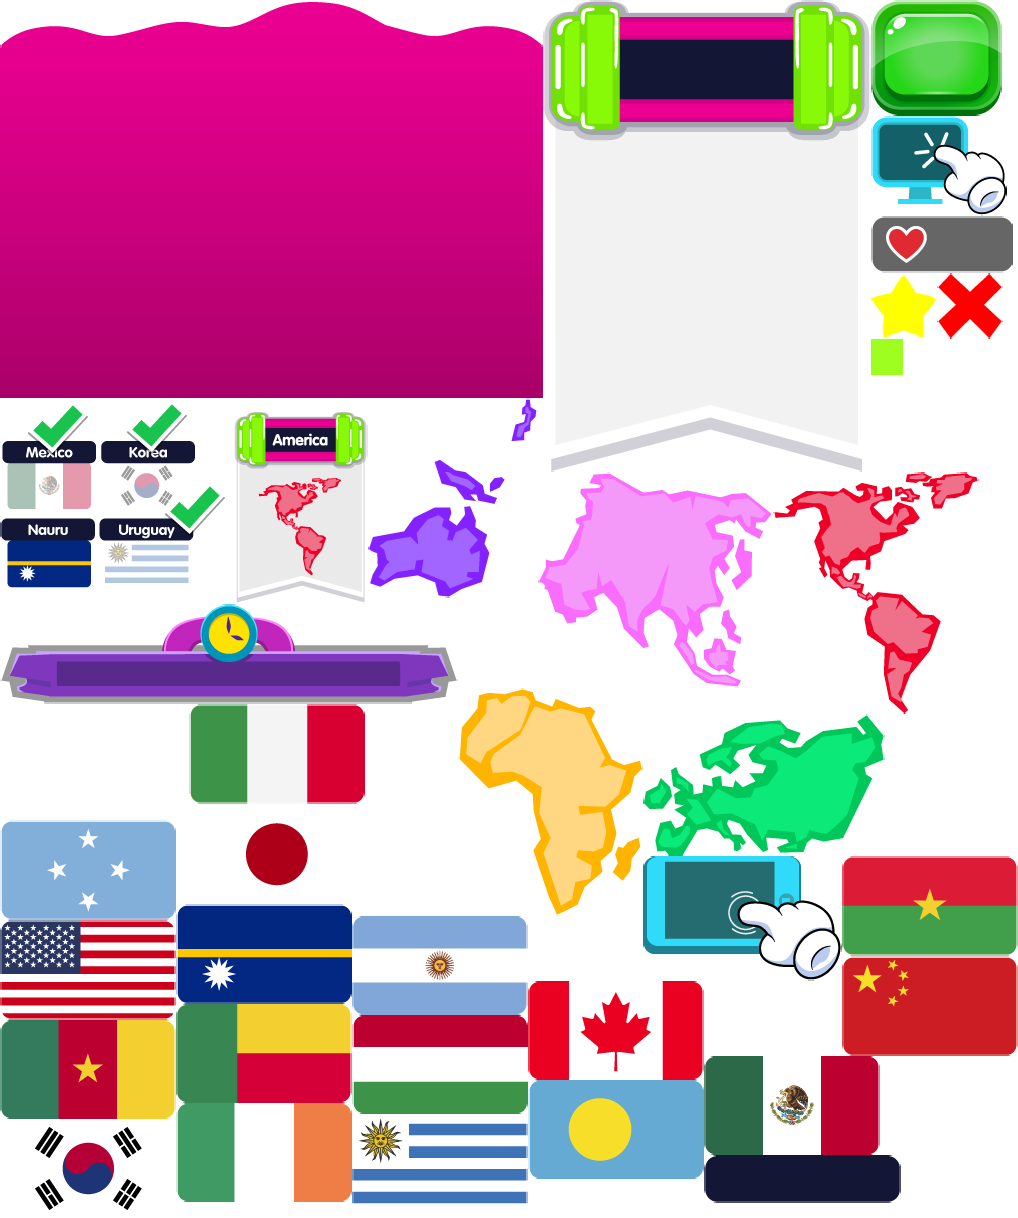
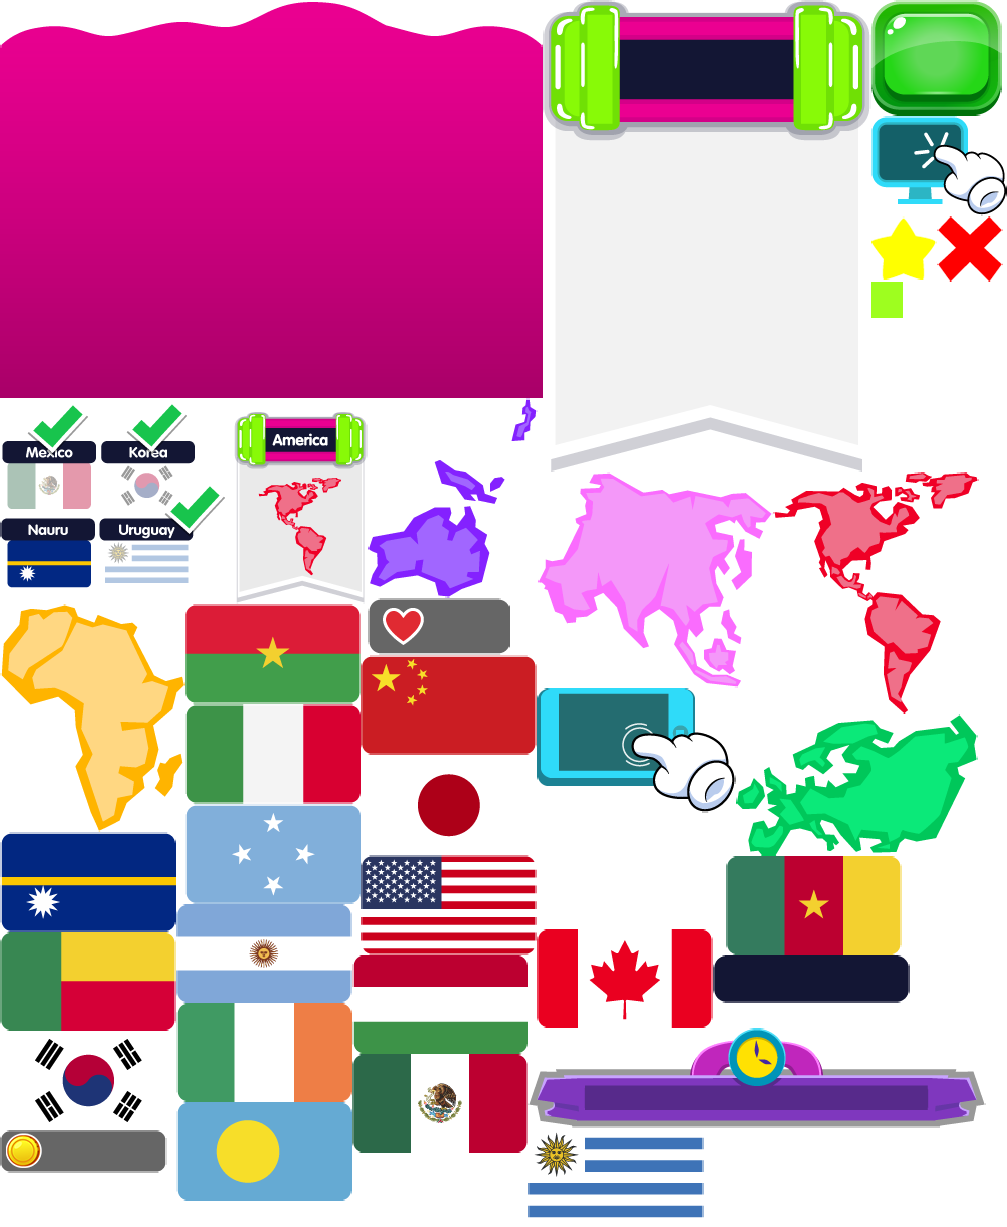
eye candy fixes, points added, levels added

diff --git a/nonrefactored/flagCollector/flagCollector/js/scenes/flag.js b/nonrefactored/flagCollector/flagCollector/js/scenes/flag.js
@@ -133,6 +133,8 @@ var flag = function(){
     var flagsGroup
     var inputsEnabled
     var selectedFlags
+    var pointsBar
+    var roundCounter
 
 	function loadSounds(){
 		sound.decode(assets.sounds)
@@ -145,11 +147,12 @@ var flag = function(){
         //gameActive = true
         lives = NUM_LIFES
         timeValue = 7
-        quantNumber = 0.5
+        quantNumber = 2
         numPoints = 0
         flagObjects = []
         continentObjects = []
         selectedFlags = []
+        roundCounter = 0
 
         sceneGroup.alpha = 0
         game.add.tween(sceneGroup).to({alpha:1},400, Phaser.Easing.Cubic.Out,true)
@@ -159,19 +162,73 @@ var flag = function(){
         
 	}
 
-	function generateCont(){
+    function addPoint(number){
+
+        sound.play("magic")
+        pointsBar.number+=number;
+        pointsBar.text.setText(pointsBar.number)
+
+        var scaleTween = game.add.tween(pointsBar.scale).to({x: 1.05,y:1.05}, 200, Phaser.Easing.linear, true)
+        scaleTween.onComplete.add(function(){
+            game.add.tween(pointsBar.scale).to({x: 1,y:1}, 200, Phaser.Easing.linear, true)
+        })
+
+        addNumberPart(pointsBar.text,'+' + number)
+
+        // if(pointsBar.number % 2 == 0){
+        timeValue-=timeValue * 0.10
+        // }
+
+    }
+
+    function createPointsBar(){
+
+        pointsBar = game.add.group()
+        pointsBar.x = game.world.width
+        pointsBar.y = 0
+        sceneGroup.add(pointsBar)
+
+        var pointsImg = pointsBar.create(-10,10,'atlas.flag','xpcoins')
+        pointsImg.anchor.setTo(1,0)
+
+        var fontStyle = {font: "35px VAGRounded", fontWeight: "bold", fill: "#ffffff", align: "center"}
+        var pointsText = new Phaser.Text(sceneGroup.game, 0, 0, "0", fontStyle)
+        pointsText.x = -pointsImg.width * 0.45
+        pointsText.y = pointsImg.height * 0.25
+        pointsBar.add(pointsText)
+
+        pointsText.setShadow(3, 3, 'rgba(0,0,0,0.5)', 0);
+
+        pointsBar.text = pointsText
+        pointsBar.number = 0
+
+    }
+
+	function generateCont(continentID){
         if (continentsGroup.continent){
             continentsGroup.remove(continentsGroup.continent)
             pullGroup.add(continentsGroup.continent)
         }
-	    
-	    var numRandom = Math.floor(Math.random() * continentObjects.length)
-        var continent = continentObjects[numRandom]
+        var continent
+
+        if (continentID === "random") {
+            var numRandom = game.rnd.integerInRange(0,continentObjects.length - 1)
+            continent = continentObjects[numRandom]
+        } else {
+            for(var continentIndex = 0; continentObjects.length; continentIndex++){
+                continent = continentObjects[continentIndex]
+                if(continentID === continent.name)
+                    break
+
+            }
+        }
+
         pullGroup.remove(continent)
         continentsGroup.add(continent)
         var localizationText = localizationData[localization.getLanguage()][continent.name]
         continentsGroup.text.setText(localizationText)
         continentsGroup.continent = continent
+        continent.alpha = 0
 	}
 
 	function createContinent(name){
@@ -188,8 +245,6 @@ var flag = function(){
 	    for (var flagIndex = 0; flagIndex < selectedFlags.length; flagIndex++)
         {
             var flag = selectedFlags[flagIndex]
-            var tweenScene = game.add.tween(flag).to({alpha: 0}, 300, Phaser.Easing.Cubic.In, true)
-            tweenScene.onComplete.add(function(){
 
                 flagsGroup.remove(flag)
                 pullGroup.add(flag)
@@ -198,9 +253,7 @@ var flag = function(){
                     flag.particle.destroy()
                     flag.particle = null
                 }
-            })
-
-        }
+            }
     }
 
     function addFlags(selectedFlags){
@@ -226,6 +279,17 @@ var flag = function(){
         }
     }
 
+    function getFlags(flagID) {
+        var flagSelected
+        for (var flagIndex = 0; flagIndex < flagObjects.length; flagIndex++){
+            var flag = flagObjects[flagIndex]
+            if (flag.name === flagID){
+                flagSelected = flag
+            }
+        }
+        return flagSelected
+    }
+
     function generateFlags(numFlags, flags) {
 
         selectedFlags = []
@@ -233,7 +297,7 @@ var flag = function(){
         if (!flags){
             flagObjects = Phaser.ArrayUtils.shuffle(flagObjects)
             var correctCounter = 1
-            for (var flagIndex = 1; flagIndex < flagObjects.length; flagIndex++) {
+            for (var flagIndex = 0; flagIndex < flagObjects.length; flagIndex++) {
                 var flag = flagObjects[flagIndex]
                 if ((flag.continent === continentName) && (correctCounter > 0)) {
                     correctCounter--
@@ -244,6 +308,11 @@ var flag = function(){
                 if (selectedFlags.length >= numFlags)
                     break
             }
+        } else{
+            for (var flagIndex = 0; flagIndex < flags.length; flagIndex++){
+                var flag = getFlags(flags[flagIndex])
+                selectedFlags.push(flag)
+            }
         }
         selectedFlags = Phaser.ArrayUtils.shuffle(selectedFlags)
         addFlags(selectedFlags)
@@ -253,7 +322,10 @@ var flag = function(){
     }
 
     function createFlagsUI(){
+        // var flagBg = game.add.tileSprite(game.world.centerX, game.world.centerY, game.world.width, game.world.height, "atlas.flag", "baseBanderas")
+        // sceneGroup.add(flagBg)
         var flagBg = sceneGroup.create(game.world.centerX, game.world.centerY, "atlas.flag", "baseBanderas")
+        flagBg.width = game.world.width+2
         flagBg.anchor.setTo(0.5, 0.5)
 
         flagsGroup = game.add.group()
@@ -285,6 +357,7 @@ var flag = function(){
             sound.play("right")
             numPoints++
             createPart("star", flag)
+            addPoint(1)
             startRound()
         }
         else {
@@ -413,15 +486,27 @@ var flag = function(){
 
     }
 
-    function startRound() {
-        var delay = 600
+    function startRound(notStarted) {
 
-        removeFlags()
-        game.time.events.add(delay,function(){
-            startTimer(missPoint)
-            generateCont()
-            generateFlags(4)
-        },this)
+        var currentRound = ROUNDS[roundCounter]
+        roundCounter = roundCounter < ROUNDS.length - 1 ? roundCounter + 1 : ROUNDS.length - 1
+        if (clock.tween)
+            clock.tween.stop()
+        if(continentsGroup.continent)
+            game.add.tween(continentsGroup.continent).to({alpha: 0}, 300, Phaser.Easing.Cubic.In, true)
+        var tweenScene = game.add.tween(flagsGroup).to({alpha: 0}, 300, Phaser.Easing.Cubic.In, true)
+        tweenScene.onComplete.add(function() {
+            removeFlags()
+            generateCont(currentRound.continent)
+            generateFlags (currentRound.numFlags, currentRound.flags)
+            game.add.tween(clock.bar.scale).to({x: clock.bar.origScale}, 300, Phaser.Easing.Cubic.Out, true)
+            game.add.tween(continentsGroup.continent).to({alpha: 1}, 300, Phaser.Easing.Cubic.Out, true)
+            var tweenScene2 = game.add.tween(flagsGroup).to({alpha: 1}, 300, Phaser.Easing.Cubic.Out, true)
+            tweenScene2.onComplete.add(function() {
+                if(!notStarted)
+                    startTimer(missPoint)
+            })
+        })
     }
 
     function missPoint(){
@@ -477,7 +562,7 @@ var flag = function(){
 
     function startTimer(onComplete) {
         var delay = 500
-        clock.bar.scale.x = clock.bar.origScale
+        // clock.bar.scale.x = clock.bar.origScale
         if (clock.tween)
             clock.tween.stop()
 
@@ -594,12 +679,14 @@ var flag = function(){
             initialize()
             
             createHearts()
+            createPointsBar()
             createGameObjects()
             createContinentUI()
-            generateCont()
+            // generateCont()
             createFlagsUI()
-            generateFlags(4)
+            // generateFlags(4)
             createClock()
+            startRound(true)
             createTutorial()
             
 		}
